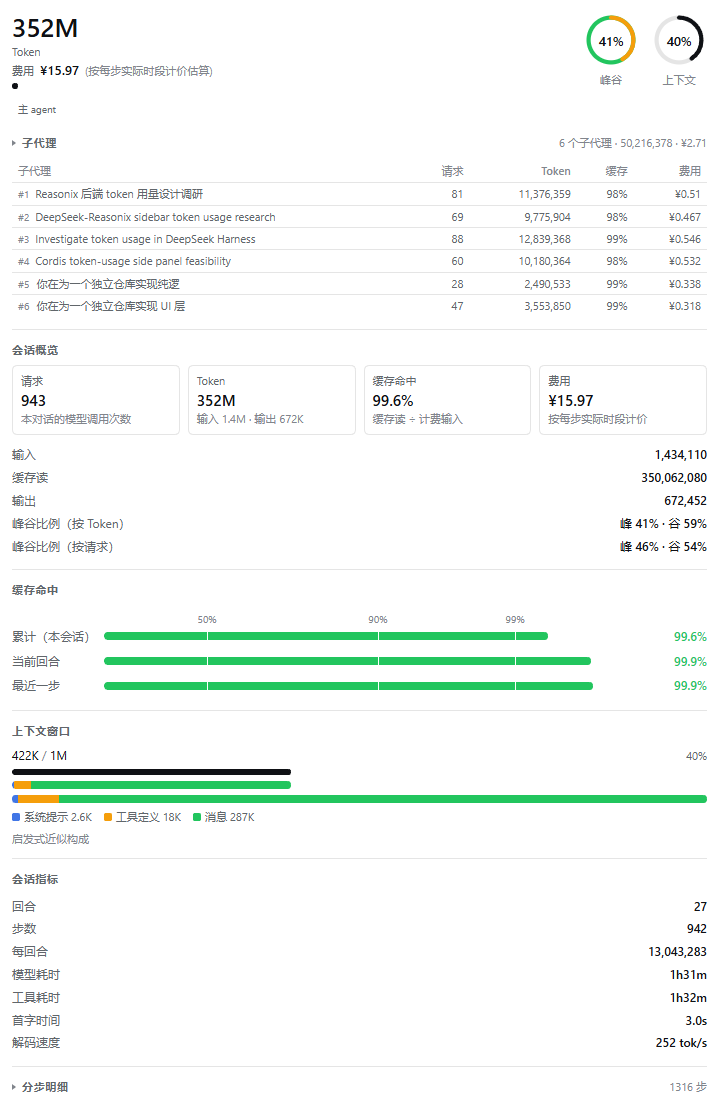
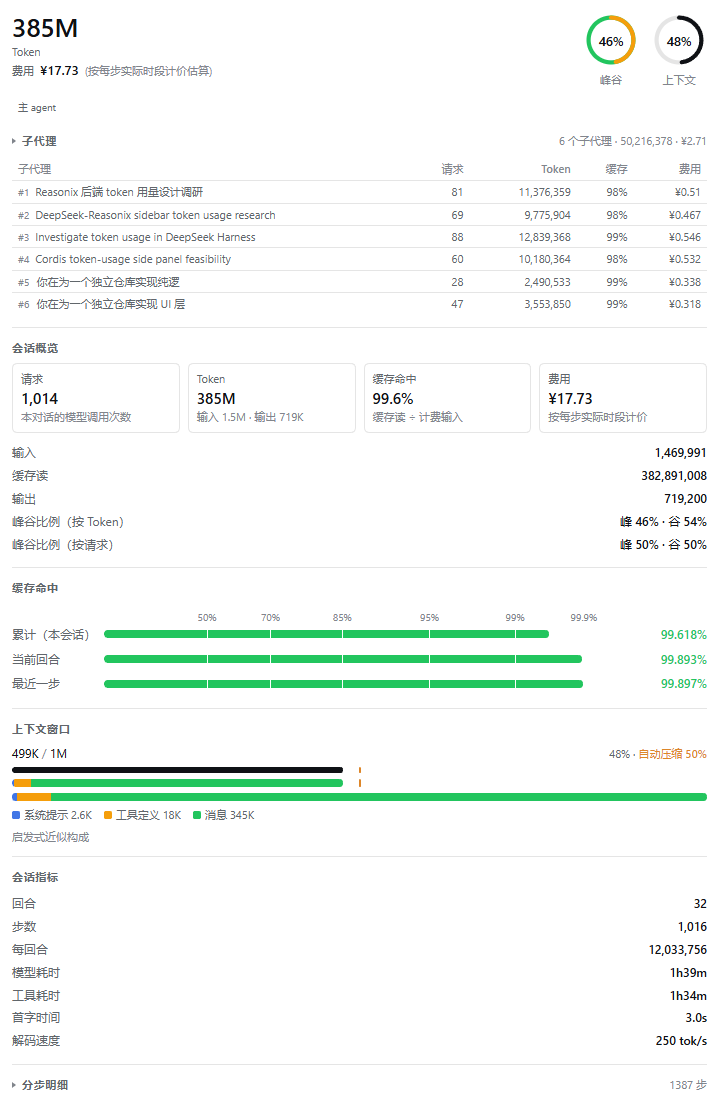
feat: denser cache-hit ruler and three-decimal hit rates

diff --git a/dist/client.js b/dist/client.js
@@ -1,4 +1,4 @@
-/* dsh-usage-insights v0.12.5 — generated by scripts/build.mjs; do not edit. */
+/* dsh-usage-insights v0.12.6 — generated by scripts/build.mjs; do not edit. */
 window.__ModuleLoader__.load({
   id: "dsh-usage-insights",
   factory(require) {
@@ -1040,6 +1040,10 @@ function formatPercent(ratio) {
   if (clamped > 0.995 && clamped < 1) return `${(clamped * 100).toFixed(1)}%`;
   return `${Math.round(clamped * 100)}%`;
 }
+function formatPercentFixed(ratio, fractionDigits) {
+  const clamped = Math.min(1, Math.max(0, ratio));
+  return `${(clamped * 100).toFixed(fractionDigits)}%`;
+}
 function formatDuration(ms) {
   const total = Math.max(0, ms);
   if (total < 59950) return `${(total / 1e3).toFixed(1)}s`;
@@ -1099,8 +1103,8 @@ function formatBeijingTime(atMs) {
 
 // src/lib/hit-scale.ts
 var HIT_SCALE_EXPONENT = 0.3;
-var FULL_HIT_RATIO = 0.9995;
-var HIT_TICKS = [0.5, 0.9, 0.99];
+var FULL_HIT_RATIO = 0.9999995;
+var HIT_TICKS = [0.5, 0.7, 0.85, 0.95, 0.99, 0.999];
 function hitBarRatio(ratio) {
   const clamped = Math.min(1, Math.max(0, ratio));
   if (clamped >= FULL_HIT_RATIO) return 1;
@@ -2060,7 +2064,7 @@ function HitBar(props) {
       HIT_TICKS.map((tick) => /* @__PURE__ */ (0, import_jsx_runtime2.jsx)("span", { className: "dsu-hit-grid", style: { left: `${hitBarRatio(tick) * 100}%` } }, tick)),
       props.ratio !== null && /* @__PURE__ */ (0, import_jsx_runtime2.jsx)("div", { className: "dsu-hit-fill", "data-level": level, style: { width: `${width * 100}%` } })
     ] }),
-    /* @__PURE__ */ (0, import_jsx_runtime2.jsx)("span", { className: "dsu-hit-value", "data-level": level, children: props.ratio === null ? "\u2014" : formatPercent(props.ratio) })
+    /* @__PURE__ */ (0, import_jsx_runtime2.jsx)("span", { className: "dsu-hit-value", "data-level": level, children: props.ratio === null ? "\u2014" : formatPercentFixed(props.ratio, 3) })
   ] });
 }
 function HitRuler() {

diff --git a/tests/hit-scale.test.ts b/tests/hit-scale.test.ts
@@ -3,9 +3,18 @@ import { FULL_HIT_RATIO, HIT_SCALE_EXPONENT, HIT_TICKS, hitBarRatio, hitLevel } 
 
 describe('HIT_TICKS', () => {
   it('marks ascending reference points inside the range', () => {
-    expect([...HIT_TICKS]).toEqual([0.5, 0.9, 0.99])
+    expect([...HIT_TICKS]).toEqual([0.5, 0.7, 0.85, 0.95, 0.99, 0.999])
     expect([...HIT_TICKS].every(tick => tick > 0 && tick < 1)).toBe(true)
     expect([...HIT_TICKS].every((tick, index, ticks) => index === 0 || ticks[index - 1]! < tick)).toBe(true)
+  })
+
+  it('shows the non-linear spacing through denser marks near the top', () => {
+    const positions = HIT_TICKS.map(tick => hitBarRatio(tick))
+    const gaps = positions.slice(1).map((position, index) => position - positions[index]!)
+    // Unequal gaps: the track cannot be read as a linear percentage axis.
+    expect(Math.max(...gaps) / Math.min(...gaps)).toBeGreaterThan(1.2)
+    // Every mark sits left of where a linear axis would put it.
+    for (const tick of HIT_TICKS) expect(hitBarRatio(tick)).toBeLessThan(tick)
   })
 })
 
@@ -20,10 +29,11 @@ describe('hitBarRatio', () => {
     expect(hitBarRatio(2)).toBe(1)
   })
 
-  it('fills the bar once the label reads as 100%', () => {
+  it('fills the bar only when the label reads a full 100%', () => {
     expect(hitBarRatio(FULL_HIT_RATIO)).toBe(1)
-    expect(hitBarRatio(0.9999)).toBe(1)
-    // Just below the rounding boundary the fill still stops short.
+    expect(hitBarRatio(1)).toBe(1)
+    // Three decimals keep 99.9999% distinct from 100%, so the fill stops short.
+    expect(hitBarRatio(0.9999)).toBeLessThan(1)
     expect(hitBarRatio(0.999)).toBeLessThan(1)
   })
 

diff --git a/src/lib/hit-scale.ts b/src/lib/hit-scale.ts
@@ -12,21 +12,22 @@
 export const HIT_SCALE_EXPONENT = 0.3
 
 /**
- * Lowest rate whose one-decimal label reads as 100%.
+ * Lowest rate whose three-decimal label reads as 100%.
  *
- * The label keeps one decimal near the top, so a fill that stopped short of the
- * bar's end would contradict an "100.0%" figure. From this rate upward the bar
- * therefore fills completely.
+ * The label keeps three decimals near the top, so a fill that stopped short of
+ * the bar's end would contradict a "100.000%" figure. From this rate upward the
+ * bar therefore fills completely.
  */
-export const FULL_HIT_RATIO = 0.9995
+export const FULL_HIT_RATIO = 0.9999995
 
 /**
  * Reference marks on the cache-hit bars.
  *
- * Three points are enough to read the non-linear scale: half of the input
- * cached, the comfortable 90% line, and the near-full 99% line.
+ * Six points make the non-linear spacing visible: the gaps shrink toward the
+ * top, so the bar cannot be read as a linear percentage axis. The marks cover
+ * the usual 50–99.9% band while keeping every label apart on the track.
  */
-export const HIT_TICKS = [0.5, 0.9, 0.99] as const
+export const HIT_TICKS = [0.5, 0.7, 0.85, 0.95, 0.99, 0.999] as const
 
 /** Status band of one cache-hit rate. */
 export type HitLevel = 'good' | 'warn' | 'bad' | 'none'

diff --git a/tests/format.test.ts b/tests/format.test.ts
@@ -9,6 +9,7 @@ import {
   formatMoneyFixed,
   formatMoneyRange,
   formatPercent,
+  formatPercentFixed,
   formatTokenCount,
   formatTokens,
   formatTokensPerSecond,
@@ -85,6 +86,24 @@ describe('formatPercent', () => {
     expect(formatPercent(1)).toBe('100%')
     expect(formatPercent(1.4)).toBe('100%')
     expect(formatPercent(-0.2)).toBe('0%')
+  })
+})
+
+describe('formatPercentFixed', () => {
+  it('keeps exactly the requested decimals', () => {
+    expect(formatPercentFixed(0.996, 3)).toBe('99.600%')
+    expect(formatPercentFixed(0.5, 3)).toBe('50.000%')
+    expect(formatPercentFixed(1, 3)).toBe('100.000%')
+  })
+
+  it('keeps near-full ratios distinct from 100%', () => {
+    expect(formatPercentFixed(0.99996, 3)).toBe('99.996%')
+    expect(formatPercentFixed(0.9999, 3)).toBe('99.990%')
+  })
+
+  it('clamps ratios outside the unit interval', () => {
+    expect(formatPercentFixed(1.4, 3)).toBe('100.000%')
+    expect(formatPercentFixed(-0.2, 3)).toBe('0.000%')
   })
 })
 

diff --git a/src/lib/format.ts b/src/lib/format.ts
@@ -81,6 +81,21 @@ export function formatPercent(ratio: number): string {
 }
 
 /**
+ * Format a ratio as a percentage with a fixed number of decimals.
+ *
+ * The cache-hit bars print three decimals so the near-100% differences stay
+ * readable next to the non-linear tick ruler.
+ *
+ * @param ratio - fraction of a whole; values outside [0, 1] are clamped.
+ * @param fractionDigits - exact digits after the decimal point.
+ * @returns `"99.600%"`, `"100.000%"`.
+ */
+export function formatPercentFixed(ratio: number, fractionDigits: number): string {
+  const clamped = Math.min(1, Math.max(0, ratio))
+  return `${(clamped * 100).toFixed(fractionDigits)}%`
+}
+
+/**
  * Format a duration in milliseconds for a metrics tile.
  *
  * @param ms - elapsed milliseconds; negative input reads as zero.

diff --git a/src/client/components.tsx b/src/client/components.tsx
@@ -12,7 +12,7 @@ import { peakRequestShare, peakTokenShare } from '../lib/band-share.ts'
 import { hitBarRatio, hitLevel, HIT_TICKS } from '../lib/hit-scale.ts'
 import {
   currencySymbol, formatAmountFixed, formatBeijingTime, formatCount, formatMoneyRange, formatPercent,
-  formatTokenCount, formatTokens,
+  formatPercentFixed, formatTokenCount, formatTokens,
 } from '../lib/format'
 import { css } from './styles'
 
@@ -125,7 +125,7 @@ export function HitBar(props: { label: string; ratio: number | null }): JSX.Elem
         )}
       </div>
       <span className="dsu-hit-value" data-level={level}>
-        {props.ratio === null ? '—' : formatPercent(props.ratio)}
+        {props.ratio === null ? '—' : formatPercentFixed(props.ratio, 3)}
       </span>
     </div>
   )

diff --git a/README.md b/README.md
@@ -15,7 +15,7 @@
 ### 用量（当前对话）
 
 - **会话概览**：请求数、Token 总量、输入 / 缓存读 / 输出（缓存写仅在提供商上报显式缓存写入时显示）、缓存命中率、费用，以及峰谷比例（按 Token 与按请求各一行）。
-- **缓存命中**：三条横条分别显示本会话累计、当前回合、最近一步的缓存命中率。条形使用幂次刻度（`1-(1-r)^0.3`）放大 90% 以上区间的差异，并带 50% / 90% / 99% 三档刻度尺与条内刻度线；百分比数字按状态着色：≥90% 绿色、70–90% 琥珀色、<70% 红色。
+- **缓存命中**：三条横条分别显示本会话累计、当前回合、最近一步的缓存命中率。条形使用幂次刻度（`1-(1-r)^0.3`）放大 90% 以上区间的差异，并带 50% / 70% / 85% / 95% / 99% / 99.9% 六档刻度尺与条内刻度线（间距不等，可直接看出是非线性轴）；右侧百分比固定三位小数（如 `99.618%`），并按状态着色：≥90% 绿色、70–90% 琥珀色、<70% 红色。
 - **Token 显示**：会话概览的 Token 卡片（含其输入/输出提示）使用 `K` / `M` / `G` 紧凑单位；会话概览的其余行、会话指标、子代理明细与分步明细显示千分位精确整数（如 `275,123,456`）；页头总量、上下文窗口与用量汇总也使用紧凑单位，悬停数字可看到精确值。
 - **上下文窗口**：第一行显示已用 / 容量与占用百分比；第二行是按占用比例填充的进度条；第三行是「占用 + 构成」组合条（宽度为占用比例，内部按三色分段）；第四行是整窗构成条；条下是带颜色的图例与各段数值。若 Host 能读到自动压缩阈值，前两条上会画一条琥珀色竖线，第一行标注「自动压缩 50%」。
 - **峰谷圈图**：上下文圈图左侧另有一个圈图，绿色轨道表示空闲、橙色弧线表示高峰，中心显示高峰占比（按 Token）。

diff --git a/README.EN.md b/README.EN.md
@@ -22,8 +22,10 @@ The plugin adds two right-Sidebar pages.
   cache-hit rate, cost, and the peak/off-peak share (one row by tokens, one by requests).
 - **Cache hit**: three bars for the cumulative, current-turn and latest-request hit rates. The
   fill uses a power scale (`1-(1-r)^0.3`) so the region above 90% keeps its differences, with a
-  50% / 90% / 99% ruler and matching tick lines cut into each bar; the percentage is coloured by
-  status: green at 90% or above, amber from 70%, red below.
+  50% / 70% / 85% / 95% / 99% / 99.9% ruler and matching tick lines cut into each bar — the
+  uneven gaps make the non-linear axis visible. The percentage keeps three decimals (for
+  example `99.618%`) and is coloured by status: green at 90% or above, amber from 70%, red
+  below.
 - **Token figures**: the overview's Token card (including its input/output hint) uses compact
   `K` / `M` / `G` units; the remaining overview rows, session metrics, subagent detail and
   request ledger show exact grouped integers (for example `275,123,456`); the header total,
